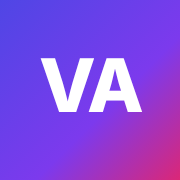
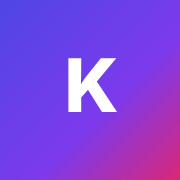
Rename the app from Vista to Keystone
The app, its icon, browser tab, emails ("Sent with Keystone"), notices to the company and plan names now say
Keystone; Vista Artisans stays a company name. Existing Stripe plan products and the billing portal headline are
renamed the next time they are used. Database names and Stripe lookup keys are unchanged.

Claude-Session: https://claude.ai/code/session_0131eEnsFADALEsTfRNBFY3R

Changed region(s): [[0.2222, 0.3056, 0.8056, 0.6389]]

diff --git a/src/views.js b/src/views.js
@@ -339,10 +339,10 @@ function layout(title, body, { flash, back, sub, fab, bare = false, pageTitle, d
 <meta name="theme-color" content="#f3f4f8" media="(prefers-color-scheme: light)">
 <meta name="theme-color" content="#0b0d14" media="(prefers-color-scheme: dark)">
 <meta name="apple-mobile-web-app-capable" content="yes"><meta name="mobile-web-app-capable" content="yes">
-<meta name="apple-mobile-web-app-status-bar-style" content="default"><meta name="apple-mobile-web-app-title" content="Vista">
+<meta name="apple-mobile-web-app-status-bar-style" content="default"><meta name="apple-mobile-web-app-title" content="Keystone">
 <link rel="manifest" href="/static/manifest.webmanifest"><link rel="icon" href="/static/icon.svg" type="image/svg+xml">
 <link rel="apple-touch-icon" href="/static/apple-touch-icon.png">
-<title>${docTitle || `${title} · Vista Artisans`}</title><style>${raw(CSS)}</style></head>
+<title>${docTitle || `${title} · Keystone`}</title><style>${raw(CSS)}</style></head>
 <body>
 ${flash ? html`<div class="toast" role="status">${flash}</div>` : ''}
 ${bare ? body : html`<div class="shell">
@@ -373,7 +373,7 @@ function nav({ user, org, path = '/' }) {
   const initial = initialOf(user);
   return {
     nav: html`<nav class="sidebar" aria-label="Main">
-      <a class="brand" href="/"><span class="mark">VA</span>${org ? org.name : 'Vista Artisans'}</a>
+      <a class="brand" href="/"><span class="mark">K</span>${org ? org.name : 'Keystone'}</a>
       ${tabs.map(([href, label, ic]) => html`<a class="nav ${activeTab(path, href) ? 'on' : ''}" href="${href}">${icon(ic)}${label}</a>`)}
       <span class="grow"></span>
       ${org && org.role === 'admin' ? html`<a class="nav ${path.startsWith('/account') ? 'on' : ''}" href="/account">${icon('account')}Account</a>` : ''}
@@ -413,14 +413,14 @@ const roleSelect = (name, selected, id) => html`<select name="${name}" ${id ? ra
 // ---------- Auth & onboarding ----------
 function authPage(title, sub, body) {
   return layout(title, html`<div class="auth">
-    <div class="mark lg">VA</div>
+    <div class="mark lg">K</div>
     <h1>${title}</h1><p class="sub">${sub}</p>
     ${body}
   </div>`, { bare: true });
 }
 
 function loginPage({ error, notice, email = '' } = {}) {
-  return authPage('Welcome back', 'Log in to Vista Artisans', html`
+  return authPage('Welcome back', 'Log in to Keystone', html`
     ${error ? html`<div class="errors" role="alert">${error}</div>` : ''}
     ${notice ? html`<div class="notice">${notice}</div>` : ''}
     <form method="post" action="/login" class="form-card">
@@ -462,7 +462,7 @@ function welcomePage({ errors = {}, values = {}, hasOrgs }) {
   </form>
   <form method="post" action="/org/new" class="form-card" novalidate>
     <h3>Start a new company</h3>
-    <div class="hint">For owners setting up Vista for the first time. You'll be its admin.</div>
+    <div class="hint">For owners setting up Keystone for the first time. You'll be its admin.</div>
     ${input('name', 'Company name', values, errors)}
     <div class="form-actions"><button type="submit" class="secondary">Create company</button></div>
   </form>`, { sub: hasOrgs ? null : 'One last step before you start.', back: hasOrgs ? { href: '/account', label: 'Account' } : null });
@@ -1187,7 +1187,7 @@ function publicEstimatePage({ estimate, company, hasLogo, client, items, totals,
       <div class="form-actions"><button type="submit" class="secondary" ${preview ? raw('disabled') : ''}>Decline estimate</button></div>
     </form></details>` : ''}
   <div class="actions" style="justify-content:center"><a class="btn ghost" href="${base}/pdf">${icon('download')}Download PDF</a></div>
-  <p class="pub-foot">Sent with Vista</p>
+  <p class="pub-foot">Sent with Keystone</p>
   </div>
   ${open ? html`<script>${raw(SIGNATURE_JS)}</script>` : ''}`, { bare: true, flash, docTitle: `${estimate.project_name} · ${company.name}` });
 }

diff --git a/src/stripe.js b/src/stripe.js
@@ -102,8 +102,8 @@ const voidInvoice = (account, id) => call('POST', `/invoices/${encodeURIComponen
 // ---------- Subscription plans (on the app's own Stripe account) ----------
 // Prices are found by lookup key and created on first use, so there is nothing to set up by hand in Stripe.
 const PLANS = {
-  team: { name: 'Vista Team', month: 4900, year: 49900 },
-  unlimited: { name: 'Vista Unlimited', month: 9900, year: 100900 },
+  team: { name: 'Keystone Team', month: 4900, year: 49900 },
+  unlimited: { name: 'Keystone Unlimited', month: 9900, year: 100900 },
 };
 const FIRST_MONTH_COUPON = 'vista-first-month-50';
 const lookupKey = (plan, interval) => `vista_${plan}_${interval}`;
@@ -114,6 +114,10 @@ async function priceFor(plan, interval) {
   if (priceCache.has(key)) return priceCache.get(key);
   const found = await call('GET', `/prices?active=true&lookup_keys[]=${encodeURIComponent(key)}&expand[]=data.product`);
   let price = found.data && found.data[0];
+  // Products made before the app was renamed keep their old name until updated here.
+  if (price && typeof price.product === 'object' && price.product.name !== PLANS[plan].name) {
+    await call('POST', `/products/${encodeURIComponent(price.product.id)}`, { name: PLANS[plan].name }).catch(() => {});
+  }
   if (!price) {
     // Reuse the plan's product if the other interval already made it.
     const other = (await call('GET', `/prices?active=true&lookup_keys[]=${encodeURIComponent(lookupKey(plan, interval === 'month' ? 'year' : 'month'))}`)).data?.[0];
@@ -159,7 +163,13 @@ async function portalSession(customerId, returnUrl) {
   if (!portalConfig) {
     const existing = (await call('GET', '/billing_portal/configurations?active=true&limit=100')).data
       ?.find((c) => c.metadata?.vista === 'v1');
-    if (existing) portalConfig = existing.id;
+    if (existing) {
+      portalConfig = existing.id;
+      if (existing.business_profile?.headline !== 'Manage your Keystone plan') {
+        await call('POST', `/billing_portal/configurations/${encodeURIComponent(existing.id)}`,
+          { business_profile: { headline: 'Manage your Keystone plan' } }).catch(() => {});
+      }
+    }
     else {
       const prices = await Promise.all(['team', 'unlimited'].flatMap((p) => ['month', 'year'].map((i) => priceFor(p, i))));
       const products = {};
@@ -168,7 +178,7 @@ async function portalSession(customerId, returnUrl) {
         (products[pid] ||= []).push(pr.id);
       }
       portalConfig = (await call('POST', '/billing_portal/configurations', {
-        business_profile: { headline: 'Manage your Vista Artisans plan' },
+        business_profile: { headline: 'Manage your Keystone plan' },
         features: {
           customer_update: { enabled: 'true', allowed_updates: ['email', 'address'] },
           invoice_history: { enabled: 'true' },

diff --git a/src/server.js b/src/server.js
@@ -1160,9 +1160,9 @@ async function notifyCompany(kind, estimateId, extra) {
       const company = await mailer.companyOf(db, estimate.org_id);
       const client = await db.get('SELECT * FROM clients WHERE id = ?', estimate.client_id);
       const t = mailer.templates[kind]({ company, estimate, client, base: mailer.appUrl() || extra.base, ...extra });
-      // The company's own copy comes "from Vista" so it doesn't look like it came from the client.
+      // The company's own copy comes "from Keystone" so it doesn't look like it came from the client.
       for (const to of await companyRecipients(db, estimate.org_id, company)) {
-        await mailer.deliver(db, { orgId: estimate.org_id, kind, to, ...t, company: { ...company, name: 'Vista' }, estimateId });
+        await mailer.deliver(db, { orgId: estimate.org_id, kind, to, ...t, company: { ...company, name: 'Keystone' }, estimateId });
       }
     });
   } catch (e) { console.error(`Could not notify the company (${kind}):`, e.message); }
@@ -1365,7 +1365,7 @@ const server = http.createServer((req, res) => {
 });
 
 if (require.main === module) {
-  server.listen(PORT, () => console.log(`Vista Artisans running on http://localhost:${PORT}`));
+  server.listen(PORT, () => console.log(`Keystone running on http://localhost:${PORT}`));
   mailer.startAutomations();
 }
 module.exports = { server };

diff --git a/src/mailer.js b/src/mailer.js
@@ -1,5 +1,5 @@
 'use strict';
-// The emails Vista sends for a company (estimates, follow-ups, reminders, review requests, notices to the company),
+// The emails Keystone sends for a company (estimates, follow-ups, reminders, review requests, notices to the company),
 // their wording, the log of what was sent, and the background loop that sends the automatic ones.
 const email = require('./email');
 const { asServer } = require('./db');
@@ -100,7 +100,7 @@ const templates = {
     subject: `${client.name} approved ${estimate.project_name}`,
     content: {
       heading: `${client.name} approved the estimate`,
-      paragraphs: [`${estimate.signer_name} signed ${estimate.project_name}${estimate.chosen_option ? ` (${estimate.chosen_option})` : ''} for ${fmt(total)}. It's now a job in Vista.`,
+      paragraphs: [`${estimate.signer_name} signed ${estimate.project_name}${estimate.chosen_option ? ` (${estimate.chosen_option})` : ''} for ${fmt(total)}. It's now a job in Keystone.`,
         deposit ? `A ${fmt(deposit)} deposit invoice was sent; you'll see the payment on the job when it's paid.` : ''].filter(Boolean),
       button: { label: 'Open the job', url: `${base}/jobs/${job}` },
     },

diff --git a/src/email.js b/src/email.js
@@ -2,13 +2,13 @@
 // Sends email through Resend's REST API (no SDK). One sending address for the whole app (EMAIL_FROM); each email
 // shows the company's name as the sender and replies go to the company's own email address.
 const KEY = process.env.RESEND_API_KEY || '';
-const FROM = (process.env.EMAIL_FROM || '').trim(); // e.g. notifications@vistaartisans.com
+const FROM = (process.env.EMAIL_FROM || '').trim(); // e.g. estimates@keystonefsm.com
 const API = (process.env.EMAIL_API_BASE || 'https://api.resend.com').replace(/\/$/, '');
 
 const configured = () => !!(KEY && FROM);
 const validEmail = (e) => /^[^\s@<>",;]+@[^\s@<>",;]+\.[^\s@<>",;]+$/.test(String(e || ''));
 // Display names can't carry quotes, angle brackets or line breaks.
-const displayName = (name) => String(name || 'Vista').replace(/["<>\r\n\\]/g, '').slice(0, 80).trim() || 'Vista';
+const displayName = (name) => String(name || 'Keystone').replace(/["<>\r\n\\]/g, '').slice(0, 80).trim() || 'Keystone';
 
 async function send({ fromName, to, replyTo, subject, html, text }) {
   if (!configured()) throw new Error('Email is not set up.');

diff --git a/test/flow.test.js b/test/flow.test.js
@@ -805,7 +805,7 @@ test('estimates: options, emailed link, online approval with signature and depos
     assert.equal((await q('SELECT status, chosen_option FROM estimates WHERE id = $1', [est]))[0].chosen_option, 'Better');
     await waitFor(async () => mail.sent.some((x) => /Jane Rivera approved Countertops/.test(x.subject)), 'approval notice');
     const notice = mail.sent.find((x) => /approved Countertops/.test(x.subject));
-    assert.match(notice.text, /\$4,000\.00/); assert.ok(notice.html.includes(`${BASE}/jobs/${job.id}`)); assert.equal(notice.from, 'Vista <estimates@vista.test>');
+    assert.match(notice.text, /\$4,000\.00/); assert.ok(notice.html.includes(`${BASE}/jobs/${job.id}`)); assert.equal(notice.from, 'Keystone <estimates@vista.test>');
 
     // The company sees the signature; the estimate is locked
     as('alice');

diff --git a/test/fake-stripe.js b/test/fake-stripe.js
@@ -41,6 +41,8 @@ function startFakeStripe(secretKey) {
         return send(200, { data });
       }
       if (p === '/v1/products') { const pr = { id: id('prod'), name: form.name, metadata: { vista_plan: form['metadata[vista_plan]'] } }; state.products.set(pr.id, pr); return done(pr); }
+      const prod = p.match(/^\/v1\/products\/([^/]+)$/);
+      if (prod && state.products.has(prod[1])) { const pr = state.products.get(prod[1]); if (form.name) pr.name = form.name; return done(pr); }
       if (p === '/v1/prices') {
         const pr = { id: id('price'), product: form.product, unit_amount: Number(form.unit_amount), lookup_key: form.lookup_key,
           recurring: { interval: form['recurring[interval]'] }, metadata: { vista_plan: form['metadata[vista_plan]'] } };

diff --git a/README.md b/README.md
@@ -1,6 +1,6 @@
-# Vista Artisans
+# Keystone
 
-A private web app for tracking clients, estimates, jobs, job expenses and payments received.
+Keystone (keystonefsm.com) is a web app for field-service companies for tracking clients, estimates, jobs, job expenses and payments received.
 Several people can share one organization, and separate organizations never see each other's data.
 
 - **Stack:** Node.js 22.13+, server-rendered pages, the `pg` driver. Data and logins live in **Supabase**
@@ -116,7 +116,7 @@ server every 10 minutes; every email is listed on its estimate or job.
 
 Email is sent through [Resend](https://resend.com). One-time setup: add and verify your domain in Resend (it shows the
 DNS records to add), create an API key with sending access, and set `RESEND_API_KEY` and `EMAIL_FROM` (for example
-`estimates@vistaartisans.com`) in Render. Emails show each company's name as the sender and replies go to the company's
+`estimates@keystonefsm.com`) in Render. Emails show each company's name as the sender and replies go to the company's
 own email. Links in automatic emails use `APP_URL`, or Render's `RENDER_EXTERNAL_URL`.
 
 ## Tests
